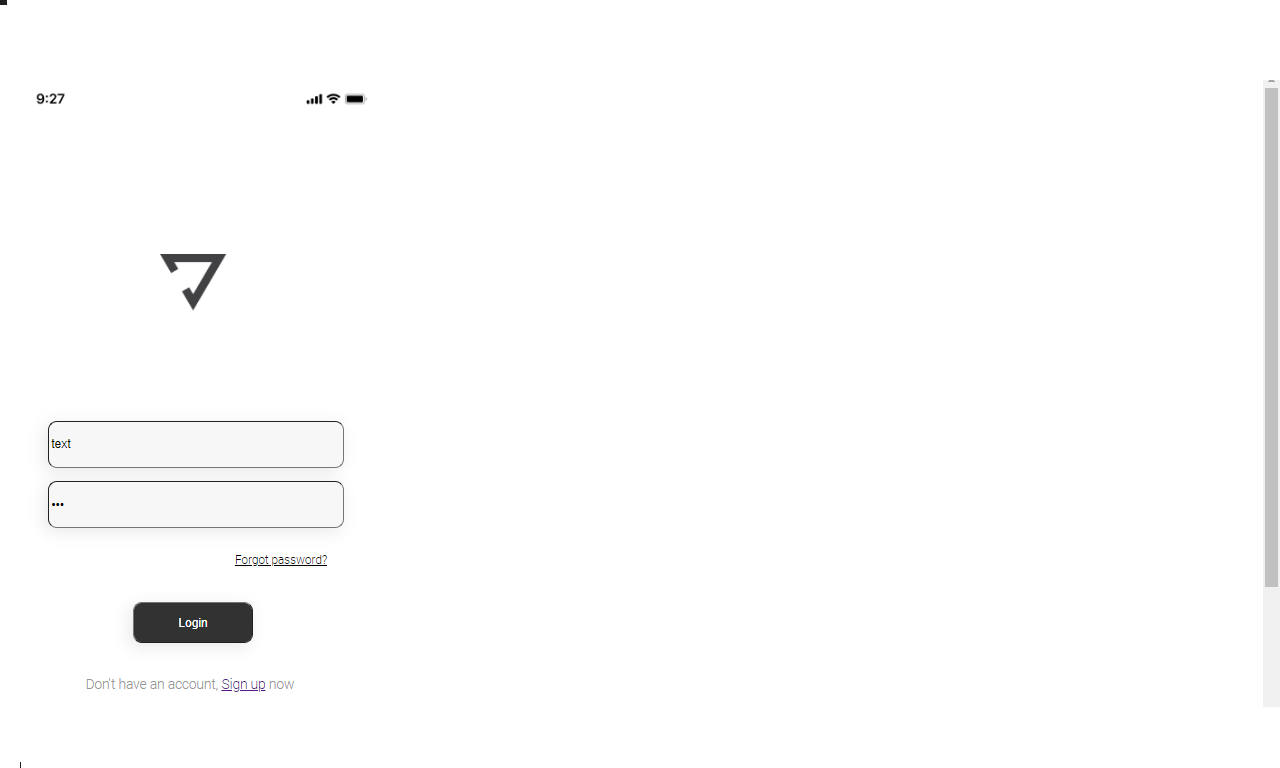
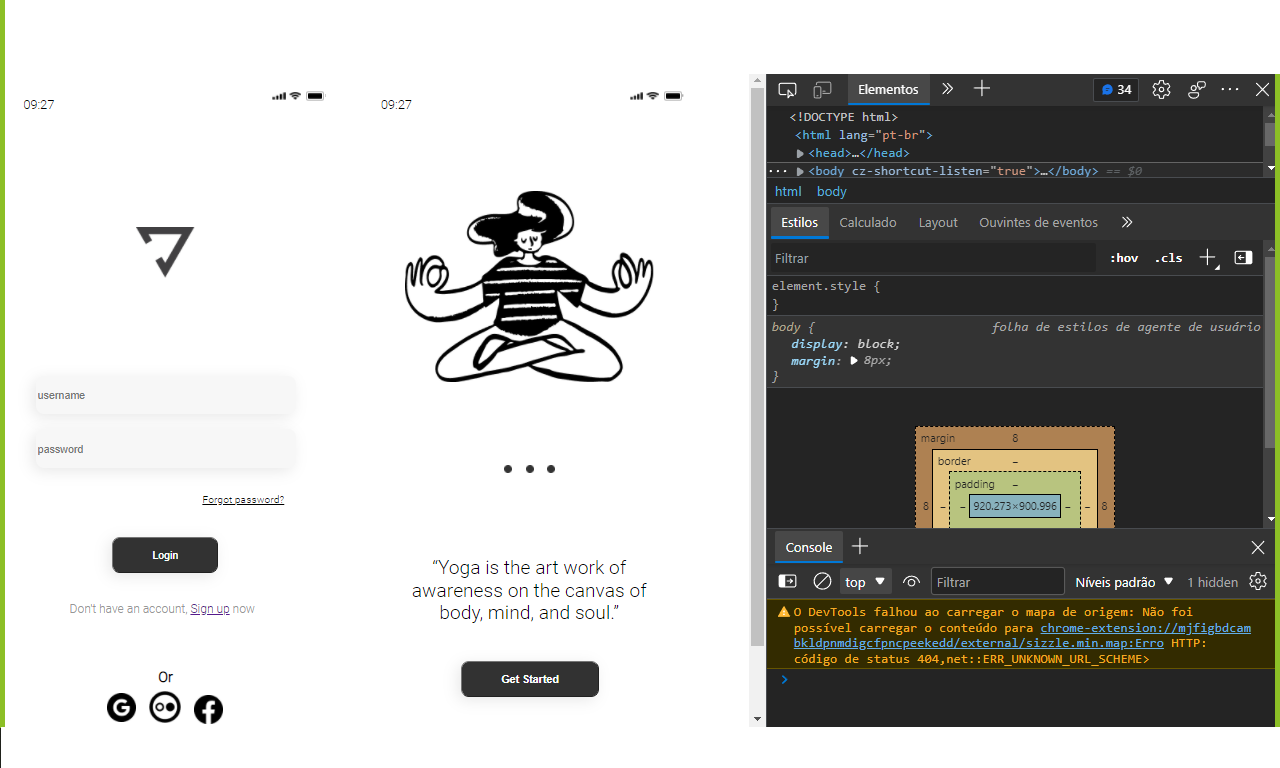
Last-Commit

diff --git a/styles.css b/styles.css
@@ -2,8 +2,66 @@
     position: relative;
     width: 414px;
     height: 896px;
-
     background: #FFFFFF;
+    display: inline-block;
+}
+
+#bar {
+    position: absolute;
+    Width: 414px;
+    Height: 46px;
+}
+
+#time {
+    position: absolute;
+    width: 56px;
+    height: 23px;
+    left: 21px;
+    top: 8px;
+}
+
+#tim {
+    font-family: 'Roboto', sans-serif;
+}
+
+#ui {
+    position: absolute;
+    width: 68px;
+    height: 16px;
+    right: 14px;
+    top: 15px;
+}
+
+#si {
+    width: 17px;
+    height: 10.67px;
+    right: 0.33px;
+    top: 0.67px;
+}
+
+#wi {
+    width: 15.33px;
+    height: 11px;
+    Top: 1px;
+    Left: 20px;
+}
+
+#bor {
+    position: absolute;
+    top: 2.33px;
+    left: 43px;
+}
+
+#capa {
+    position: absolute;
+    top: 4.33px;
+    left: 45px;
+}
+
+#cap {
+    position: absolute;
+    top: 6px;
+    left: 66px;
 }
 
 #d5 {
@@ -18,10 +76,7 @@
 #app {
     position: absolute;
     left: 27px;
-    right: 27px;
     top: 44px;
-    bottom: 20px;
-
 }
 
 #d2 {
@@ -40,6 +95,7 @@
     background: #F7F7F7;
     box-shadow: -4px 4px 18px rgba(0, 0, 0, 0.09);
     border-radius: 10px;
+    border: none;
 }
 
 #d3 {
@@ -59,6 +115,7 @@
     background: #F7F7F7;
     box-shadow: -4px 4px 18px rgba(0, 0, 0, 0.09);
     border-radius: 10px;
+    border: none;
 }
 
 #d4 {
@@ -145,7 +202,6 @@ button {
     position: absolute;
     left: 0%;
     right: 109px;
-    top: 8px;
     bottom: 8px;
 
 }
@@ -154,13 +210,111 @@ button {
     position: absolute;
     left: 52.5px;
     right: 53.5px;
-    top: 6.5px;
     bottom: 6.5px;
 }
 
 #fb {
     position: absolute;
     left: 108px;
-    top: 10px;
     bottom: 6px;
+}
+
+#div10 {
+    box-sizing: border-box;
+    display: inline-block;
+    position: absolute;
+    width: 414px;
+    height: 896px;
+    margin-left: 33px;
+    background: #FFFFFF;
+}
+
+#muie {
+    position: absolute;
+    width: 311.05px;
+    height: 239px;
+    left: 51px;
+    top: 142px;
+}
+
+
+#ink1 {
+    position: absolute;
+    top: 56.24px;
+    left: 155.72px;
+}
+
+#ink2 {
+    position: absolute;
+    top: 56.24px;
+    left: 158.97px;
+}
+
+#ink3 {
+    position: absolute;
+    top: 56.96px;
+    left: 145.27px;
+}
+
+#ink4 {
+    position: absolute;
+    top: 70.66px;
+    left: 153.92px;
+}
+
+#bol {
+    position: absolute;
+    width: 64px;
+    height: 10px;
+    top: 485px;
+    left: 175px;
+}
+
+#b1 {
+    left: 27px;
+    position: absolute;
+    width: 10px;
+    height: 10px;
+}
+
+#b2 {
+    position: absolute;
+    width: 10px;
+    height: 10px;
+}
+
+#b3 {
+    right: 0;
+    position: absolute;
+    width: 10px;
+    height: 10px;
+}
+
+#text1 {
+    position: absolute;
+    width: 327px;
+    height: 176px;
+    left: 43px;
+    top: 576px;
+
+    font-family: 'Roboto', sans-serif;
+    font-style: normal;
+    font-weight: normal;
+    font-size: 24px;
+    line-height: 28px;
+    text-align: center;
+
+    color: #000000;
+}
+
+#butt {
+    width: 173px;
+    height: 46px;
+    left: 121px;
+    bottom: 121px;
+
+    background: #323232;
+    box-shadow: -4px 4px 18px rgba(0, 0, 0, 0.09);
+    border-radius: 10px;
+    font-weight: bolder;
 }

diff --git a/index.html b/index.html
@@ -13,10 +13,22 @@
     <title>App</title>
 </head>
 
-<div id="div0">
-<div id="55" >
-    <img src="./assets/Status Bar.png">
-</div>
+<body>
+    <div id="div0">
+        <div id="bar">
+            <div id="time">
+                <P id="tim"> 09:27</P>
+            </div>
+            <div id="ui">
+                <img id="si" src="./assets/cellall.png">
+                <img id="wi" src="./assets/Wifi.png">
+                <img id="bor" src="./assets/Border.png">
+                <img id="capa" src="./assets/Capacity.png">
+                <img id="cap" src="./assets/Cap.png">
+
+            </div>
+        </div>
+    </div>
     <div id="d5">
         <img id="apf" src="./assets/app fundo.png">
         <img id="app" src="./assets/app.png">
@@ -39,7 +51,38 @@
         <img id="bal" src="./assets/bal.png">
         <img id="fb" src="./assets/fb.png">
     </div>
-</div>
+    </div>
+    <div id="div10">
+        <div id="bar">
+            <div id="time">
+                <P id="tim"> 09:27</P>
+            </div>
+            <div id="ui">
+                <img id="si" src="./assets/cellall.png">
+                <img id="wi" src="./assets/Wifi.png">
+                <img id="bor" src="./assets/Border.png">
+                <img id="capa" src="./assets/Capacity.png">
+                <img id="cap" src="./assets/Cap.png">
+
+            </div>
+        </div>
+        <div id="muie">
+            <img id="sha" src="./assets/ink shape.png">
+            <img id="ink1" src="./assets/ink shape 5.png">
+            <img id="ink2" src="./assets/ink shape 6.png">
+            <img id="ink3" src="./assets/./ink shape 7.png">
+            <img id="ink4" src="./assets/./ink shape 8.png">
+        </div>
+        <div id="bol">
+            <img id="b1" src="./assets/bol.png">
+            <img id="b2" src="./assets/bol.png">
+            <img id="b3" src="./assets/bol.png">
+
+        </div>
+        <p id="text1">“Yoga is the art work of awareness on the canvas of body, mind, and soul.”</p>
+        <button id="butt">Get Started</button>
+    </div>
+
 </body>
 
 </html>
